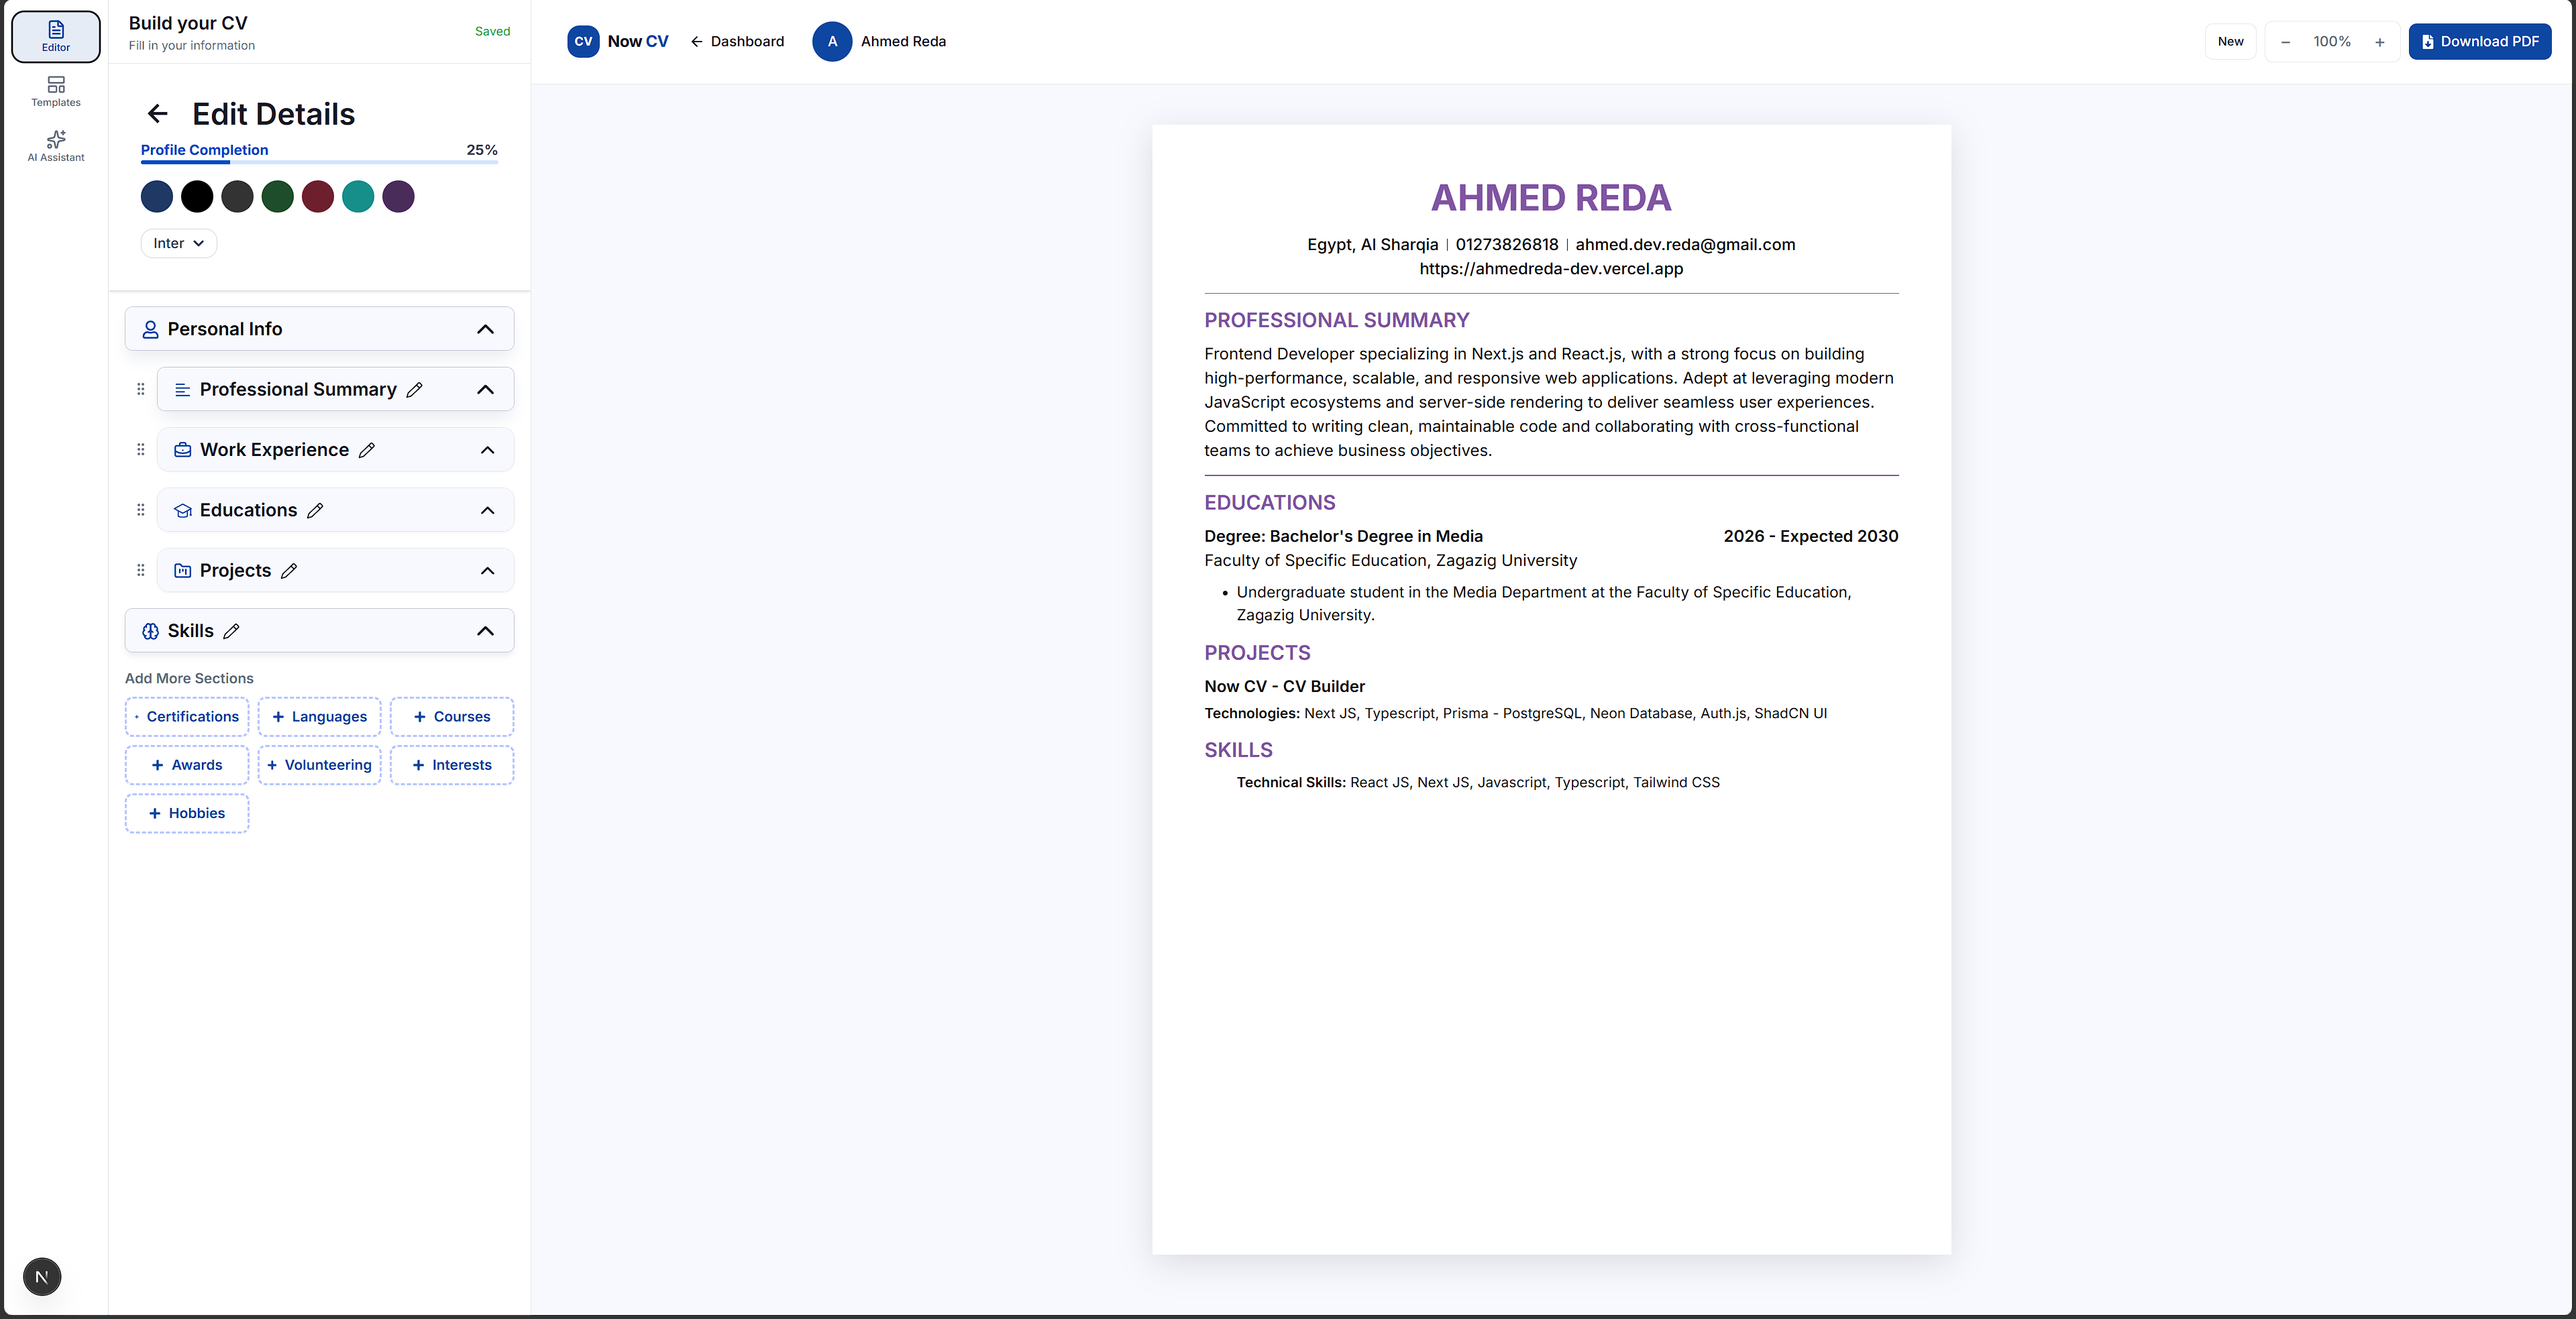
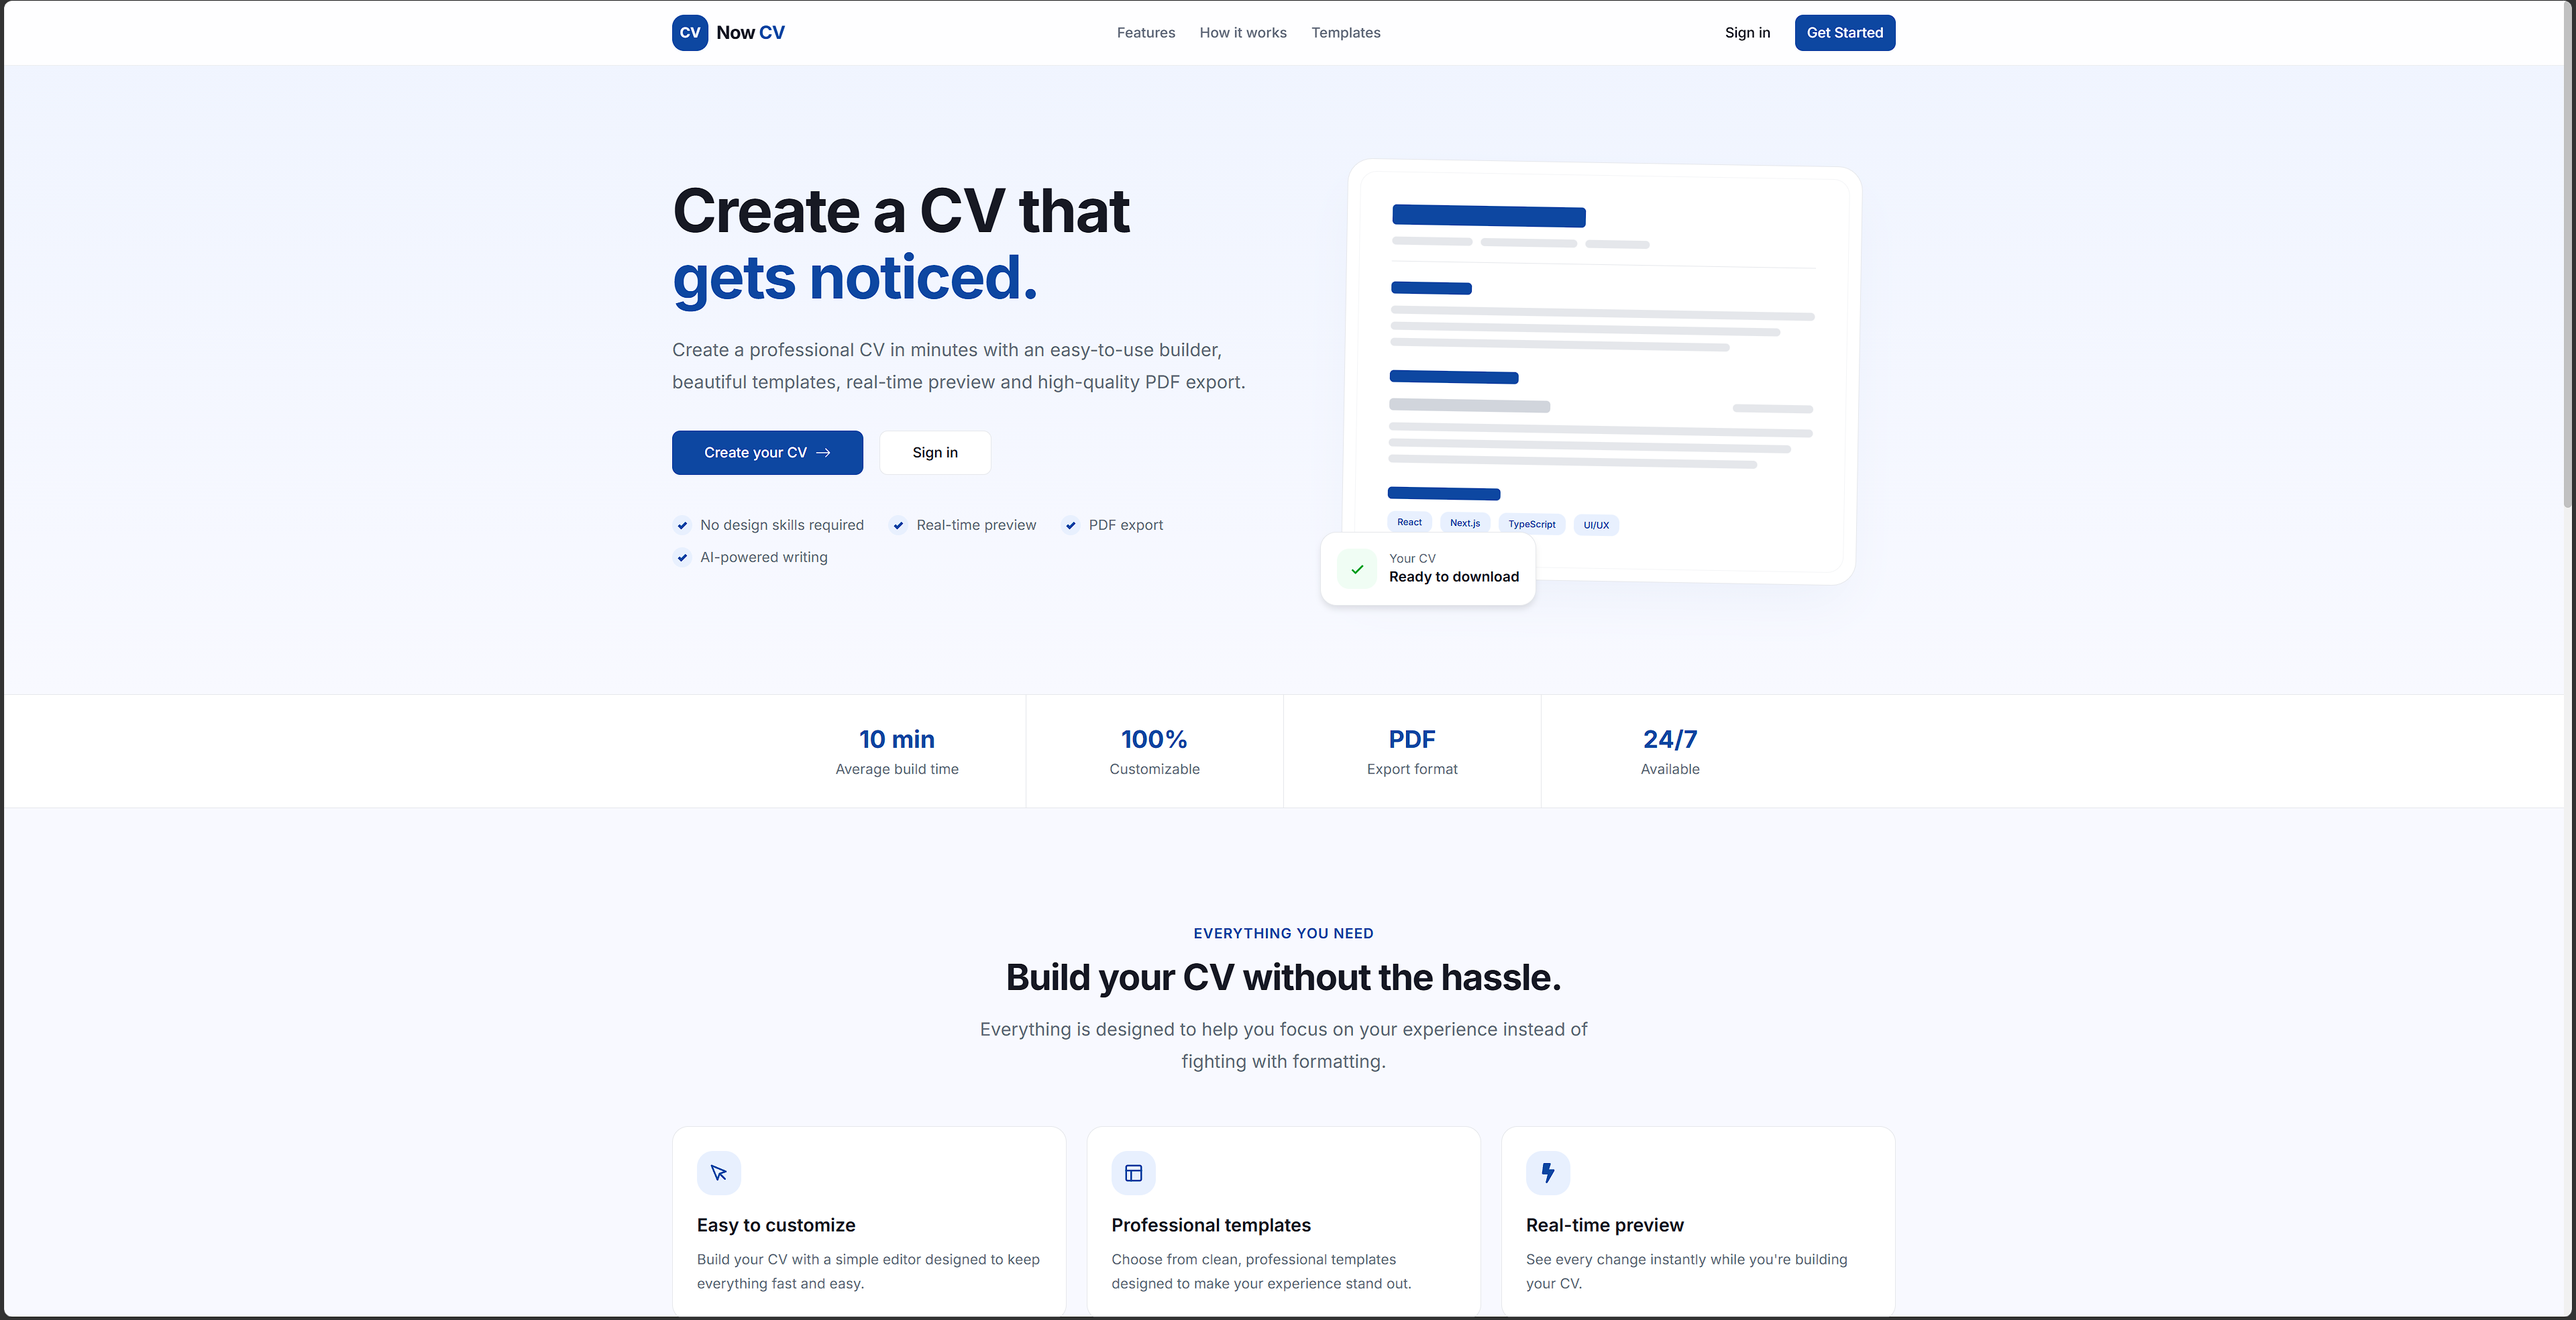
feat(data): centralize portfolio content and update project screenshots

diff --git a/components/data.ts b/components/data.ts
@@ -1,0 +1,156 @@
+import {
+  FaGithub,
+  FaInstagram,
+  FaLinkedinIn,
+  FaXTwitter,
+} from "react-icons/fa6";
+
+export type FeaturedProject = {
+  id: string;
+  title: string;
+  description: string;
+  category?: string;
+  year: string;
+  role: string;
+  image: string;
+  technologies: string[];
+  liveUrl?: string;
+  githubUrl?: string;
+  featured: boolean;
+};
+
+export const featuredProjects: FeaturedProject[] = [
+  {
+    id: "now-cv",
+    title: "MY ATS CV — ATS Resume Builder",
+    description:
+      "A modern CV builder that helps users create, customize, preview, and export professional ATS-friendly resumes as PDF files.",
+    category: "Featured Project",
+    year: "2026",
+    role: "Full Stack Developer",
+    image: "/projects_images/myatscv.png",
+    technologies: [
+      "Next.js",
+      "React",
+      "TypeScript",
+      "Prisma ORM",
+      "Auth.js",
+      "Tailwind CSS",
+      "Redux Toolkit",
+    ],
+    liveUrl: "https://myatscv.vercel.app/",
+    githubUrl: "https://github.com/ahmed-dev-reda/cv-builder",
+    featured: true,
+  },
+
+  {
+    id: "admin-panel",
+    title: "Admin Dashboard",
+    description:
+      "A modern admin dashboard featuring a clean interface, responsive layouts, and reusable UI components for efficient data management.",
+    year: "2026",
+    role: "Frontend Developer",
+    image: "/projects_images/admin.png",
+    technologies: [
+      "Next.js",
+      "React",
+      "TypeScript",
+      "Tailwind CSS",
+      "shadcn/ui",
+    ],
+    liveUrl: "https://admin-devtrend.vercel.app",
+    githubUrl: "https://github.com/ahmed-dev-reda/admin",
+    featured: true,
+  },
+
+  {
+    id: "video-downloader",
+    title: "Video Downloader",
+    description:
+      "A web-based video downloading application with an API-driven download workflow and a simple user interface.",
+    year: "2026",
+    role: "Frontend Developer",
+    image: "/projects_images/video-downloader.png",
+    technologies: ["Next.js", "React", "TypeScript", "Tailwind CSS"],
+    liveUrl: "https://medo-dev-00s-projects-video-downloader.vercel.app/",
+    githubUrl: "https://github.com/ahmed-dev-reda/video-downloader",
+    featured: true,
+  },
+];
+
+export const portfolio = {
+  name: "Ahmed Reda",
+  role: "Frontend Developer",
+  location: "Egypt",
+  email: "ahmed.dev.reda@gmail.com",
+
+  intro:
+    "I'm a Frontend Developer from Egypt passionate about building modern, responsive, and user-friendly web experiences.",
+
+  about:
+    "I'm Ahmed Reda, a Frontend Developer focused on React, Next.js, TypeScript, and Tailwind CSS. I enjoy turning ideas into real products, solving problems, and building accessible and high-performance interfaces. I continuously improve my skills by building practical projects and exploring modern web technologies.",
+
+  profileImage: "/profile.jpg",
+  resume: "/files/resume.pdf",
+
+  socials: {
+    linkedin: "https://www.linkedin.com/in/ahmed-reda-a41b49435/",
+    github: "https://github.com/ahmed-dev-reda",
+    youtube: "https://www.youtube.com/@ahmed-dev-reda",
+  },
+
+  capabilities: [
+    "HTML",
+    "CSS",
+    "JavaScript",
+    "TypeScript",
+    "React",
+    "Next.js",
+    "Redux Toolkit",
+    "Tailwind CSS",
+    "Prisma",
+    "Git & GitHub",
+    "Responsive Design",
+    "REST APIs",
+  ],
+
+  experience: [
+    {
+      role: "Frontend Developer",
+      company: "Personal & Freelance Projects",
+      period: "2025 — Present",
+      description:
+        "Building responsive web applications using React, Next.js, TypeScript, and Tailwind CSS. Working on reusable components, API integration, application performance, and user experience.",
+    },
+    {
+      role: "Frontend Developer",
+      company: "Independent Projects",
+      period: "2025 — Present",
+      description:
+        "Developing practical projects including an ATS resume builder, a course catalog, and an Arabic developer roadmap platform while continuously improving frontend development skills.",
+    },
+  ],
+};
+
+export const socials = [
+  {
+    label: "LinkedIn",
+    icon: FaLinkedinIn,
+    url: portfolio.socials.linkedin,
+  },
+  {
+    label: "GitHub",
+    icon: FaGithub,
+    url: portfolio.socials.github,
+  },
+  {
+    label: "X",
+    icon: FaXTwitter,
+    url: "#",
+  },
+  {
+    label: "Instagram",
+    icon: FaInstagram,
+    url: "#",
+  },
+];
